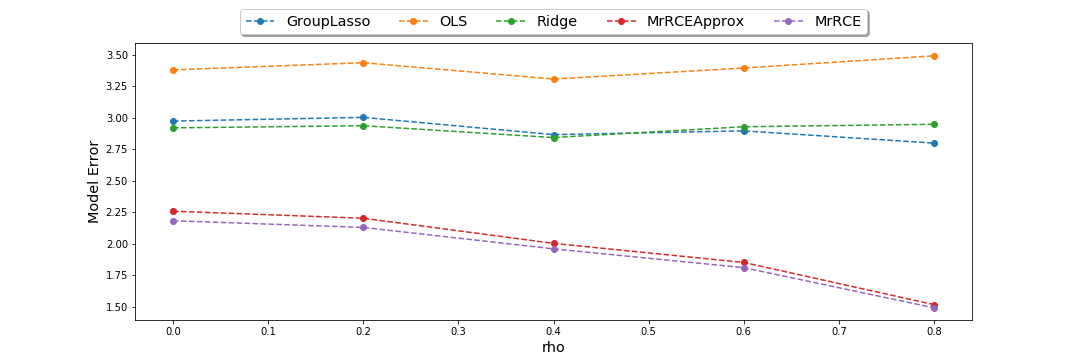
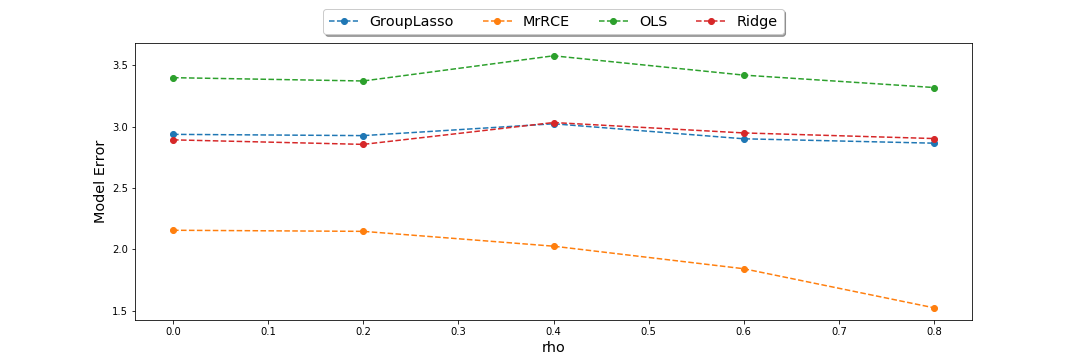
new simulations (em)

diff --git a/run_simulation.py b/run_simulation.py
@@ -27,7 +27,7 @@ parser.add_argument(
 )
 parser.add_argument('--n', type=int, default=200, help='number of repetitions')
 parser.add_argument('--output-path', default='output', help='output folder')
-parser.add_argument('--save-data', action="store_true")
+parser.add_argument('--save-data', action='store_true', help='whether to save the simulation data')
 args = parser.parse_args()
 
 simulation_params = get_simulation_settings(args.simulation_name)
@@ -133,7 +133,7 @@ if args.save_data:
 
 # plot
 to_plot = (
-    results_df[['rho', 'GroupLasso', 'OLS', 'Ridge', 'MrRCEApprox', 'MrRCE']].
+    results_df[['rho', 'GroupLasso', 'MrRCE', 'OLS', 'Ridge']].
     groupby('rho', as_index=False).
     mean().
     melt(

diff --git a/README.md b/README.md
@@ -37,8 +37,8 @@ For help run:
 ```
 $ python run_simulation.py --help
 
-usage: run_simulation.py [-h] [--simulation-name SIMULATION_NAME] [--n N]
-                         [--output-path OUTPUT_PATH]
+usage: run_simulation.py [-h] --simulation-name SIMULATION_NAME [--n N]
+                         [--output-path OUTPUT_PATH] [--save-data]
 
 MrRCE simulations.
 
@@ -50,6 +50,8 @@ optional arguments:
   --n N                 number of repetitions
   --output-path OUTPUT_PATH
                         output folder
+  --save-data           whether to save the simulation data
+
 
 ```
 
